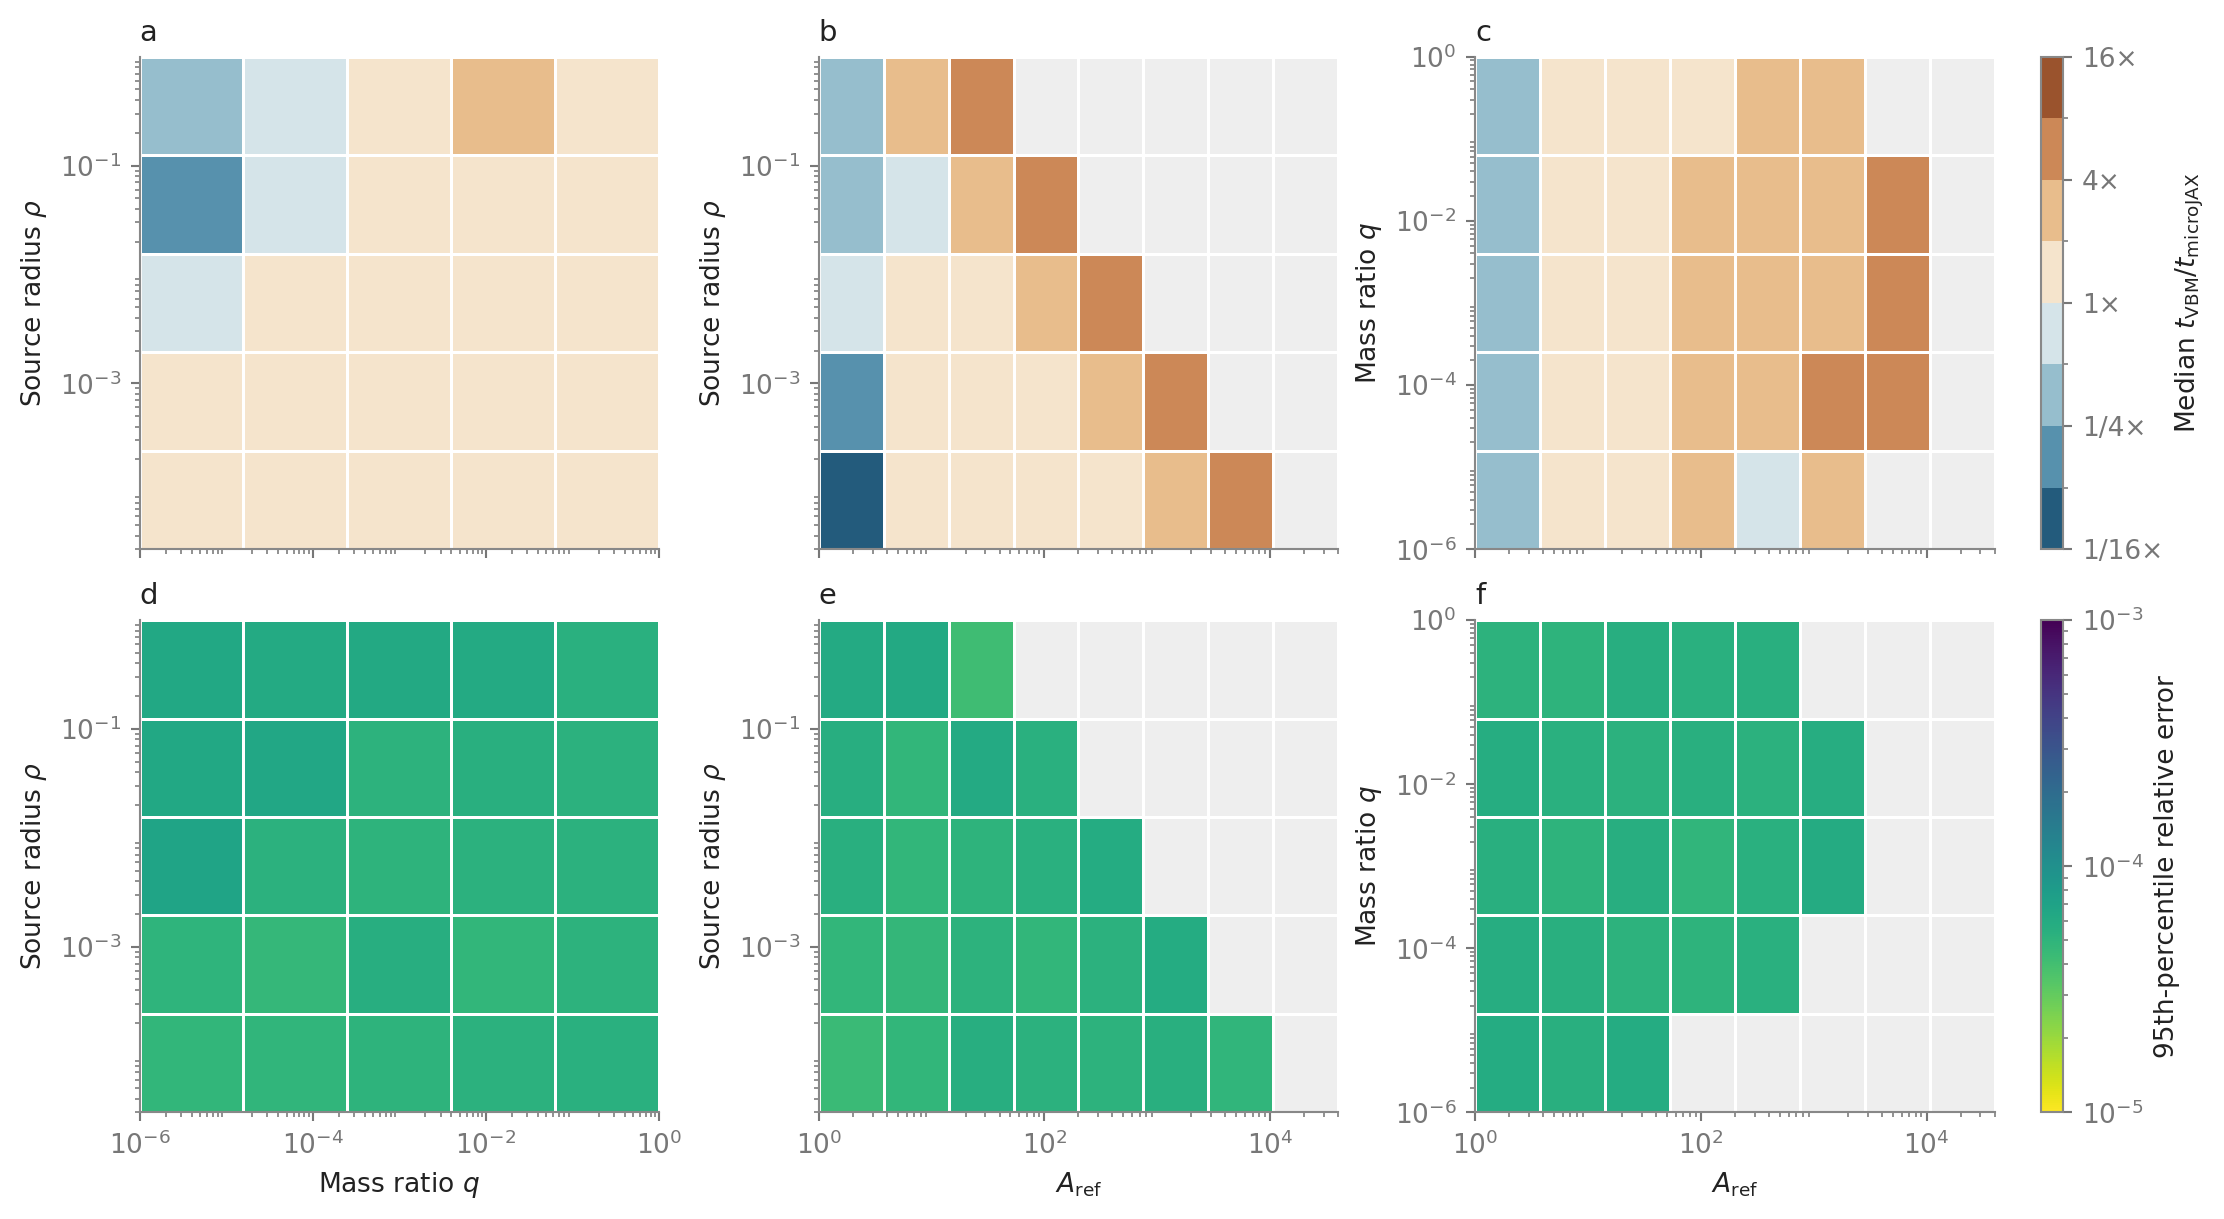
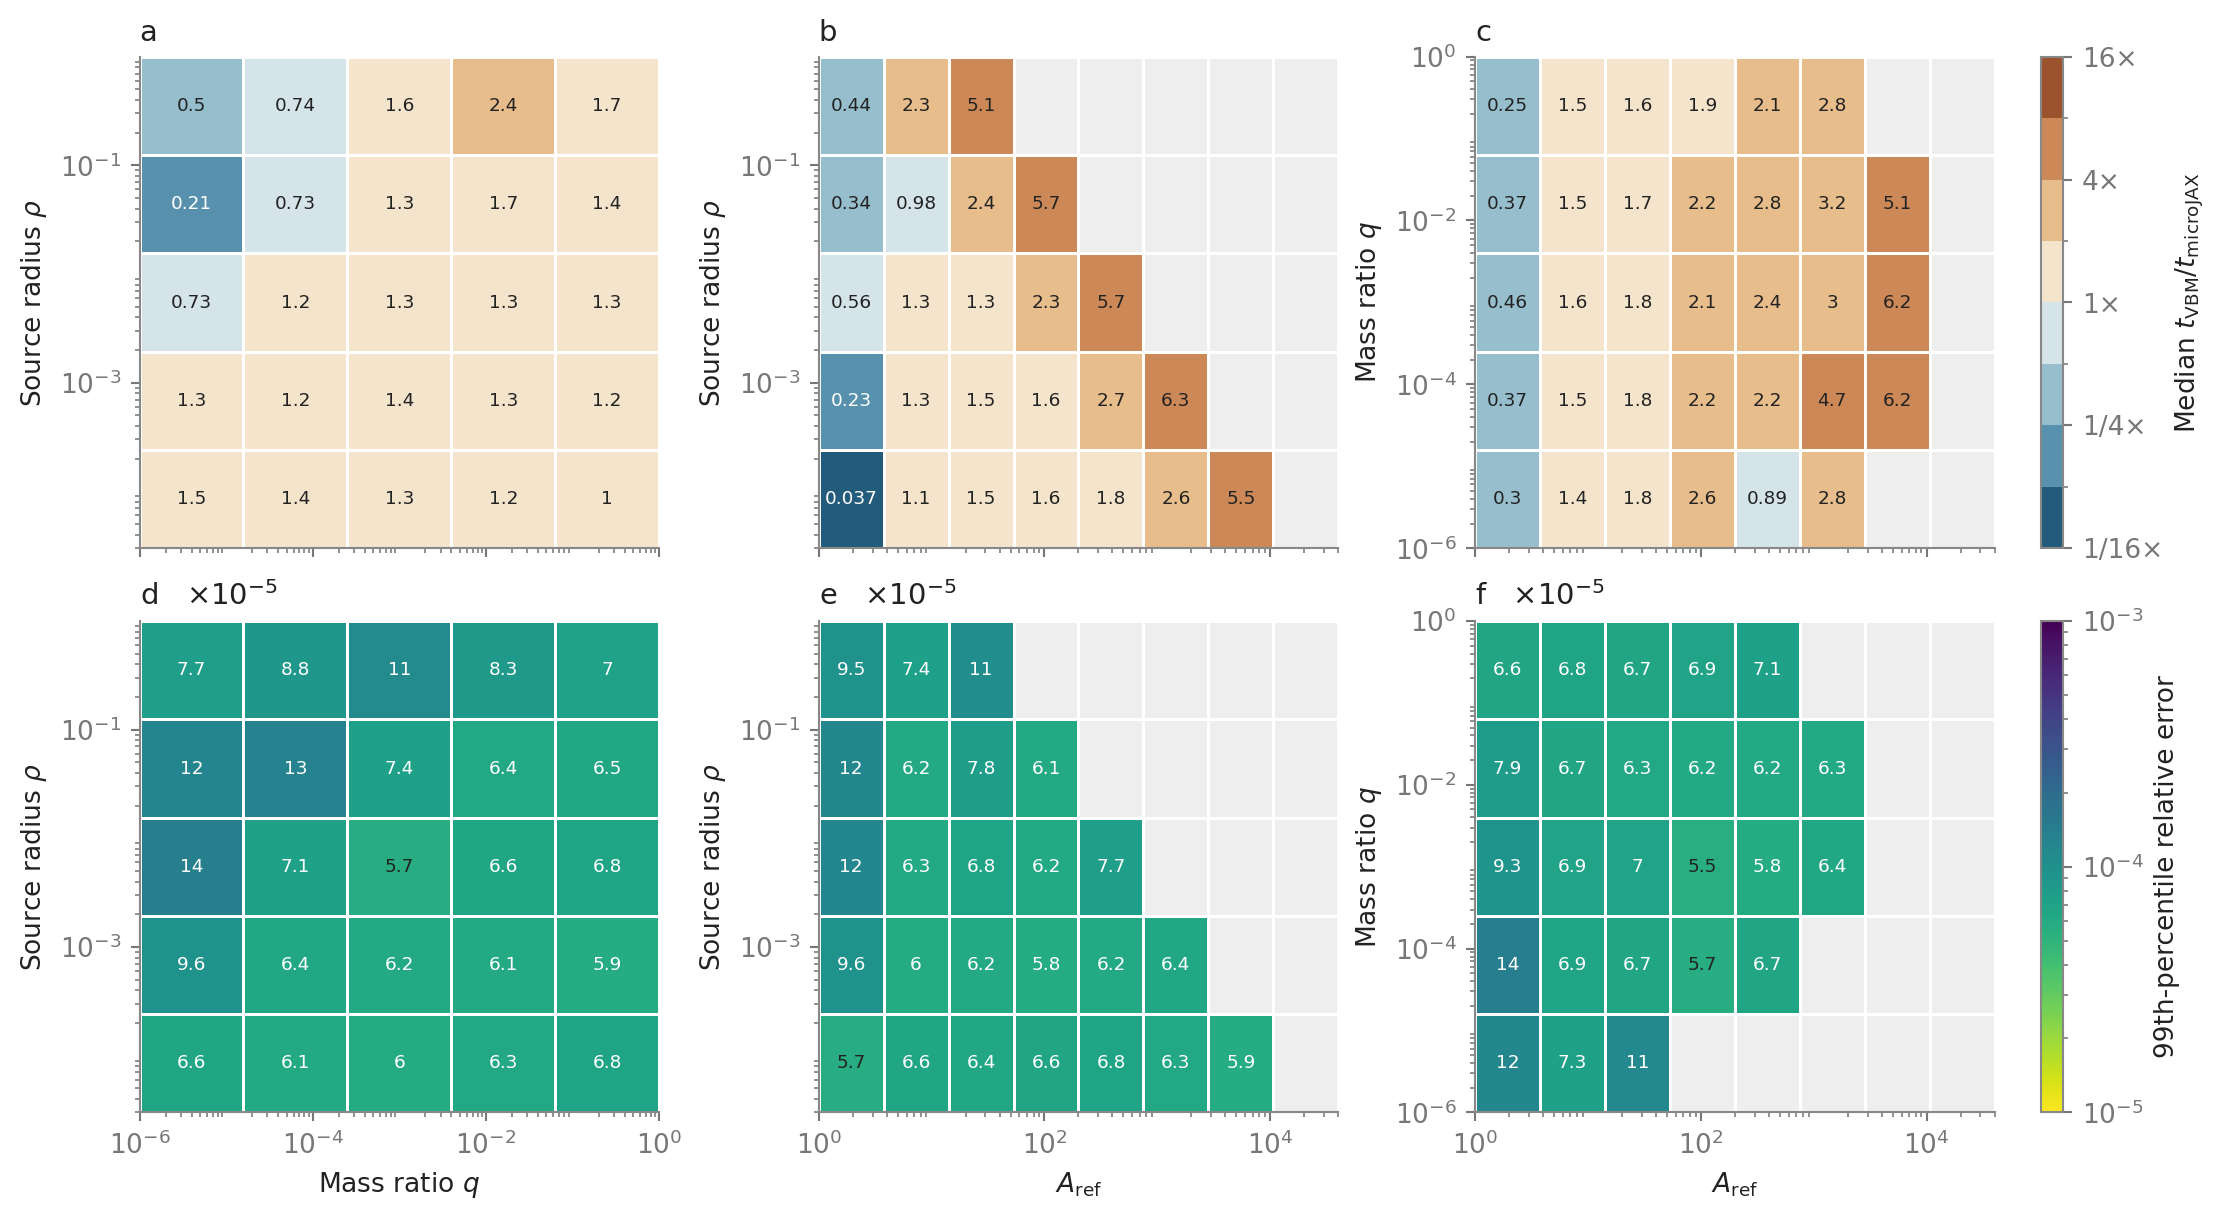
Show parameter-conditioned CPU benchmarks and 99th-percentile errors

diff --git a/docs_src/_static/custom.css b/docs_src/_static/custom.css
@@ -8,3 +8,13 @@
   white-space: normal;
   overflow-wrap: anywhere;
 }
+
+.benchmark-selector select {
+  margin-left: 0.4rem;
+  padding: 0.2rem 0.4rem;
+  font: inherit;
+  color: var(--pst-color-text-base);
+  background: var(--pst-color-background);
+  border: 1px solid var(--pst-color-border);
+  border-radius: 0.25rem;
+}

diff --git a/tools/plot_cpu_benchmark.py b/tools/plot_cpu_benchmark.py
@@ -24,6 +24,7 @@ TARGET = 1e-3
 MIN_CONFIGS = 15
 BOOTSTRAPS = 4000
 SEED = 20261106
+ACCURACY_QUANTILE = 0.99
 
 
 def style():
@@ -125,7 +126,7 @@ def statistics(points, groups, metadata):
     cells = []
     for metric, data, key, quantile, log in (
         ("speed", groups, "ratio", 0.5, True),
-        ("accuracy", points, "relative_error", 0.95, False),
+        ("accuracy", points, "relative_error", ACCURACY_QUANTILE, False),
     ):
         for x, y in combinations:
             for iy in range(len(edges[y]) - 1):
@@ -152,6 +153,7 @@ def statistics(points, groups, metadata):
                     cells.append(
                         {
                             "metric": metric,
+                            "quantile": quantile,
                             "x": x,
                             "y": y,
                             "ix": ix,
@@ -184,85 +186,54 @@ def save(fig, destination):
     plt.close(fig)
 
 
-def interval(ax, result, coordinate, color, *, horizontal=False, scale=1):
+def interval(ax, result, coordinate, color):
     if not result["eligible"]:
         return
-    center = result["estimate"] * scale
-    lo95, hi95 = np.asarray(result["ci95"]) * scale
-    lo68, hi68 = np.asarray(result["ci68"]) * scale
-    if horizontal:
-        ax.hlines(coordinate, lo95, hi95, color=color, alpha=0.38, lw=1.8)
-        ax.hlines(coordinate, lo68, hi68, color=color, lw=5)
-        ax.scatter(center, coordinate, s=28, color=color, edgecolor="white", linewidth=0.65, zorder=3)
-    else:
-        ax.vlines(coordinate, lo95, hi95, color=color, alpha=0.38, lw=1.8)
-        ax.vlines(coordinate, lo68, hi68, color=color, lw=5)
-        ax.scatter(coordinate, center, s=28, color=color, edgecolor="white", linewidth=0.65, zorder=3)
+    lo95, hi95 = result["ci95"]
+    lo68, hi68 = result["ci68"]
+    ax.hlines(coordinate, lo95, hi95, color=color, alpha=0.38, lw=1.8)
+    ax.hlines(coordinate, lo68, hi68, color=color, lw=5)
+    ax.scatter(result["estimate"], coordinate, s=28, color=color, edgecolor="white", linewidth=0.65, zorder=3)
 
 
 def overview(points, groups, edges, summary, directory):
-    fig, axes = plt.subplots(2, 2, figsize=(10.6, 7.2), layout="constrained")
-    error = np.sort(np.maximum(points["relative_error"], 1e-13))
-    error_limits = (max(1e-13, error[0] / 2), max(1e-3, error[-1] * 1.5))
-
-    ax = axes[0, 0]
-    ax.set_title("a   Relative error", loc="left")
-    ax.step(error, np.arange(1, len(error) + 1) / len(error), where="post", lw=1.7, color=BLUE)
-    ax.axvline(1e-4, color=MUTED, ls="--", lw=0.9)
-    interval(ax, summary["accuracy_p95"], 0.95, BLUE, horizontal=True)
-    log_axis(ax, "x")
-    ax.xaxis.set_major_locator(LogLocator(base=10, numticks=5))
-    ax.set(xlabel=r"$|A/A_{\rm ref}-1|$", ylabel="Cumulative fraction", xlim=error_limits, ylim=(0, 1.04))
-
-    ax = axes[0, 1]
-    ax.set_title("b   By source radius", loc="left")
-    for i in range(len(edges["rho"]) - 1):
-        selected = in_bin(points["rho"], edges["rho"], i)
-        errors = points["relative_error"][selected]
-        positive = errors[errors > 0]
-        center = np.sqrt(edges["rho"][i:i+2].prod())
-        if positive.size:
-            violin = ax.violinplot(
-                np.log10(positive), positions=[np.log10(center)],
-                widths=0.72 * np.diff(np.log10(edges["rho"][i:i+2])),
-                showextrema=False, points=160, bw_method="scott",
-            )
-            body = violin["bodies"][0]
-            for path in body.get_paths():
-                path.vertices[:] = 10**path.vertices
-            body.set_facecolor(BLUE)
-            body.set_edgecolor(BLUE)
-            body.set_alpha(0.3)
-            ax.scatter(center, np.quantile(errors, 0.95), s=21, color=ORANGE, zorder=3)
-    ax.axhline(1e-4, color=MUTED, ls="--", lw=0.9)
-    log_axis(ax, "x")
-    log_axis(ax, "y")
-    ax.yaxis.set_major_locator(LogLocator(base=10, numticks=5))
-    ax.set(xlabel=r"Source radius $\rho$", ylabel=r"$|A/A_{\rm ref}-1|$",
-           xlim=(edges["rho"][0], edges["rho"][-1]), ylim=error_limits)
-
-    ax = axes[1, 0]
-    ax.set_title("c   Time per source", loc="left")
-    for y, key, color in ((1, "cpu_runtime", BLUE), (0, "vbm_runtime", ORANGE)):
-        interval(ax, summary[key], y, color, horizontal=True, scale=1000)
-        value = summary[key]["estimate"] * 1000
-        ax.annotate(f"{value:.2f}", (value, y), xytext=(0, 10), textcoords="offset points",
-                    ha="center", fontsize=9, color=color)
-    ax.grid(True, axis="x")
-    upper_time = max(summary[key]["ci95"][1] for key in ("cpu_runtime", "vbm_runtime"))
-    ax.set(yticks=[1, 0], yticklabels=["microJAX", "VBM"], ylim=(-0.6, 1.6),
-           xlim=(0, upper_time * 1150), xlabel="Time [ms]")
-
-    ax = axes[1, 1]
-    ax.set_title("d   Relative speed", loc="left")
-    ratios = np.sort(groups["ratio"])
-    ax.step(ratios, np.arange(1, len(ratios) + 1) / len(ratios), where="post", lw=1.7, color=ORANGE)
-    ax.axvline(1, color=MUTED, ls="--", lw=0.9)
-    interval(ax, summary["speed"], 0.5, ORANGE, horizontal=True)
-    log_axis(ax, "x")
-    ax.xaxis.set_major_locator(LogLocator(base=10, numticks=5))
-    ax.set(xlabel=r"$t_{\rm VBM}/t_{\rm microJAX}$", ylabel="Cumulative fraction", ylim=(0, 1.04))
-    save(fig, directory / "cpu_overview")
+    names = {"rho": r"Source radius $\rho$", "q": r"Mass ratio $q$", "reference": r"$A_{\rm ref}$"}
+    for parameter, label in names.items():
+        bins = edges[parameter]
+        cmap = ListedColormap(plt.get_cmap("viridis")(np.linspace(0.08, 0.88, len(bins) - 1)))
+        norm = LogNorm(bins[0], bins[-1])
+        fig, axes = plt.subplots(1, 2, figsize=(10.6, 3.8), sharey=True, layout="constrained")
+        for ax, data, key, title, xlabel, threshold, statistic, level in (
+            (axes[0], points, "relative_error", "a   Relative error", r"$|A/A_{\rm ref}-1|$",
+             1e-4, summary["accuracy_p99"], ACCURACY_QUANTILE),
+            (axes[1], groups, "ratio", "b   Relative speed", r"$t_{\rm VBM}/t_{\rm microJAX}$",
+             1, summary["speed"], 0.5),
+        ):
+            for i in range(len(bins) - 1):
+                values = np.sort(np.maximum(data[key][in_bin(data[parameter], bins, i)], 1e-13))
+                if values.size:
+                    color = cmap(norm(np.sqrt(bins[i:i+2].prod())))
+                    ax.step(values, np.arange(1, len(values) + 1) / len(values),
+                            where="post", lw=1.2, color=color, alpha=0.9)
+            values = np.sort(np.maximum(data[key], 1e-13))
+            ax.step(values, np.arange(1, len(values) + 1) / len(values),
+                    where="post", lw=1.5, color=INK, label="All sources")
+            interval(ax, statistic, level, INK)
+            ax.axvline(threshold, color=MUTED, ls="--", lw=0.9)
+            log_axis(ax, "x")
+            ax.xaxis.set_major_locator(LogLocator(base=10, numticks=5))
+            ax.set_title(title, loc="left")
+            ax.set(xlabel=xlabel, ylim=(0, 1.04))
+        axes[0].set_ylabel("Cumulative fraction")
+        axes[0].legend(loc="upper left", fontsize=9)
+        colorbar = fig.colorbar(matplotlib.cm.ScalarMappable(norm=norm, cmap=cmap),
+                               ax=axes, pad=0.025, fraction=0.025, aspect=25)
+        colorbar.set_label(label)
+        colorbar.locator = LogLocator(base=10, numticks=5)
+        colorbar.update_ticks()
+        colorbar.ax.yaxis.set_minor_formatter(NullFormatter())
+        suffix = "" if parameter == "rho" else "_" + ("magnification" if parameter == "reference" else parameter)
+        save(fig, directory / ("cpu_overview" + suffix))
 
 
 def parameter_maps(edges, cells, directory):
@@ -284,6 +255,13 @@ def parameter_maps(edges, cells, directory):
             ax.set_facecolor(EMPTY)
             mesh = ax.pcolormesh(edges[x], edges[y], np.ma.masked_invalid(matrix),
                                  cmap=cmap, norm=norm, shading="flat", edgecolors="white", linewidth=0.45)
+            for iy, ix in np.argwhere(np.isfinite(matrix)):
+                value = matrix[iy, ix]
+                red, green, blue, _ = cmap(norm(value))
+                color = INK if 0.2126 * red + 0.7152 * green + 0.0722 * blue > 0.55 else "white"
+                label = f"{value:.2g}" if row == 0 else f"{value / 1e-5:.2g}"
+                ax.text(np.sqrt(edges[x][ix:ix+2].prod()), np.sqrt(edges[y][iy:iy+2].prod()),
+                        label, ha="center", va="center", fontsize=7, color=color)
             ax.set(xscale="log", yscale="log", ylabel=names[y])
             if row == 1:
                 ax.set_xlabel(names[x])
@@ -291,7 +269,8 @@ def parameter_maps(edges, cells, directory):
             ax.yaxis.set_major_locator(LogLocator(base=10, numticks=4))
             ax.xaxis.set_minor_formatter(NullFormatter())
             ax.yaxis.set_minor_formatter(NullFormatter())
-            ax.set_title(chr(97 + row*3 + col), loc="left")
+            title = chr(97 + row*3 + col) + (r"   $\times10^{-5}$" if row == 1 else "")
+            ax.set_title(title, loc="left")
         colorbar = fig.colorbar(mesh, ax=axes[row, :], pad=0.025, fraction=0.025, aspect=22)
         if row == 0:
             colorbar.set_ticks([1/16, 1/4, 1, 4, 16])
@@ -299,7 +278,7 @@ def parameter_maps(edges, cells, directory):
             colorbar.set_label(r"Median $t_{\rm VBM}/t_{\rm microJAX}$")
         else:
             colorbar.set_ticks([1e-5, 1e-4, 1e-3])
-            colorbar.set_label("95th-percentile relative error")
+            colorbar.set_label("99th-percentile relative error")
     save(fig, directory / "cpu_parameter_maps_ld")
 
 
@@ -311,7 +290,7 @@ def regional_intervals(cells, directory):
             ax.axhspan(j*5-0.5, j*5+4.5, color="#f2f2f2", zorder=0)
         for cell in cells:
             if cell["metric"] == metric and cell["x"] == "q" and cell["y"] == "rho":
-                interval(ax, cell, cell["iy"]*5+cell["ix"], color, horizontal=True)
+                interval(ax, cell, cell["iy"]*5+cell["ix"], color)
         ax.set(ylim=(24.7, -0.7), yticks=range(25), yticklabels=labels)
         log_axis(ax, "x")
         ax.set_title("a   Relative speed" if metric == "speed" else "b   Relative error", loc="left")
@@ -324,8 +303,9 @@ def regional_intervals(cells, directory):
             lo, hi = ax.get_xlim()
             ax.set_xlim(min(lo, 3.8e-5), max(hi, 1.03e-4))
             ax.axvline(1e-4, color=MUTED, lw=0.9, ls="--")
-            ax.xaxis.set_major_locator(FixedLocator([4e-5, 6e-5, 1e-4]))
-            ax.set_xlabel(r"95th percentile of $|A/A_{\rm ref}-1|$")
+            ax.xaxis.set_major_locator(LogLocator(base=10, subs=(1, 2, 5), numticks=6))
+            ax.xaxis.set_major_formatter(FuncFormatter(lambda value, _: f"{value:.0e}".replace("e-0", "e−")))
+            ax.set_xlabel(r"99th percentile of $|A/A_{\rm ref}-1|$")
     save(fig, directory / "cpu_regional_intervals_ld")
 
 
@@ -353,9 +333,8 @@ def main():
         "maximum_relative_error": float(points["relative_error"].max()),
         "above_target": int(np.sum(points["relative_error"] > TARGET)),
         "speed": stat(groups, "ratio", log=True),
-        "accuracy_p95": stat(points, "relative_error", quantile=0.95),
-        "cpu_runtime": stat(groups, "cpu_seconds_per_point"),
-        "vbm_runtime": stat(groups, "vbm_seconds_per_point"),
+        "accuracy_quantile": ACCURACY_QUANTILE,
+        "accuracy_p99": stat(points, "relative_error", quantile=ACCURACY_QUANTILE),
         "edges": {key: value.tolist() for key, value in edges.items()},
     }
     style()

diff --git a/docs_src/benchmarks.rst b/docs_src/benchmarks.rst
@@ -3,29 +3,43 @@ Benchmarks
 
 These figures compare **microJAX on CPU** with **VBMicrolensing (VBM)** for
 binary lenses with linear limb darkening, ``u1=0.5``. Both codes receive the
-same lens parameters and source position. The overview shows the overall
-error and timing distributions; the maps show where they change.
+same lens parameters and source position. The overview groups error and
+speed distributions by one parameter at a time; the maps show the variation
+across pairs of parameters.
 
 Overall accuracy and speed
 --------------------------
 
 In this sample, **typical relative differences are below** :math:`10^{-4}`:
 99.5% of the 12,244 checked positions fall below that level. The median is
-:math:`2.24\times10^{-5}` and the 95th percentile is
-:math:`5.46\times10^{-5}`. Here, relative error means
+:math:`2.24\times10^{-5}` and the 99th percentile is
+:math:`7.51\times10^{-5}`. Here, relative error means
 :math:`\epsilon=|A_{\rm microJAX}/A_{\rm ref}-1|`, using the saved reference
 described below. The largest difference is :math:`6.19\times10^{-4}`.
 
+.. raw:: html
+
+   <p class="benchmark-selector">
+     <label for="benchmark-group">Group by:</label>
+     <select id="benchmark-group"
+       onchange="const figure = document.getElementById('cpu-overview'); figure.querySelector('img').src = this.value; figure.querySelector('a').href = this.value;">
+       <option value="_static/cpu_overview.png">Source radius (ρ)</option>
+       <option value="_static/cpu_overview_q.png">Mass ratio (q)</option>
+       <option value="_static/cpu_overview_magnification.png">Magnification (Aref)</option>
+     </select>
+   </p>
+
 .. figure:: _static/cpu_overview.png
-   :alt: Cumulative magnification errors, error violins by source radius, median CPU runtimes, and paired speed ratios
+   :name: cpu-overview
+   :alt: Two panels showing cumulative relative errors and paired runtime ratios, grouped by the selected parameter
    :width: 100%
    :target: _static/cpu_overview.png
 
-   **a:** cumulative error distribution; **b:** error distributions by source
-   radius, with orange dots at the 95th percentile. Dashed lines mark
-   :math:`10^{-4}`. **c:** median time per source; **d:** the distribution of
-   paired runtime ratios. Thick and thin bars show 68.27% and 95% bootstrap
-   intervals for the marked estimates.
+   **a:** cumulative relative error; **b:** cumulative runtime ratio.
+   Colours identify logarithmic bins of the selected parameter; black
+   shows all sources. Dashed lines mark :math:`10^{-4}` error and equal
+   runtime. The black points mark the overall 99th-percentile error and
+   median speed ratio, with 68.27% and 95% bootstrap intervals.
 
 The median paired speed ratio is **1.20**, with a 95% interval of
 [1.17, 1.22]. The ratio is :math:`t_{\rm VBM}/t_{\rm microJAX}`: values above
@@ -102,13 +116,14 @@ magnification bins. Of these positions, 81 have no usable reference;
 12,244 enter the accuracy comparison.
 
 .. figure:: _static/cpu_parameter_maps_ld.png
-   :alt: Regional median speed ratios and 95th-percentile errors across mass ratio, source radius, and reference magnification
+   :alt: Two-dimensional maps of median speed ratios and 99th-percentile errors, with a numerical estimate in each populated cell
    :width: 100%
    :target: _static/cpu_parameter_maps_ld.png
 
    **a–c:** median runtime ratio, VBM/microJAX.
-   **d–f:** 95th-percentile relative error. Grey cells have too few measured
-   configurations or no sources in the saved reference frame.
+   **d–f:** 99th-percentile relative error. Each cell shows its estimate;
+   numbers in **d–f** are in units of :math:`10^{-5}`. Grey cells have too few
+   measured configurations or no sources in the saved reference frame.
 
 The columns group the same measurements by :math:`(q,\rho)`,
 :math:`(A_{\rm ref},\rho)`, and :math:`(A_{\rm ref},q)`; separation ``s``
